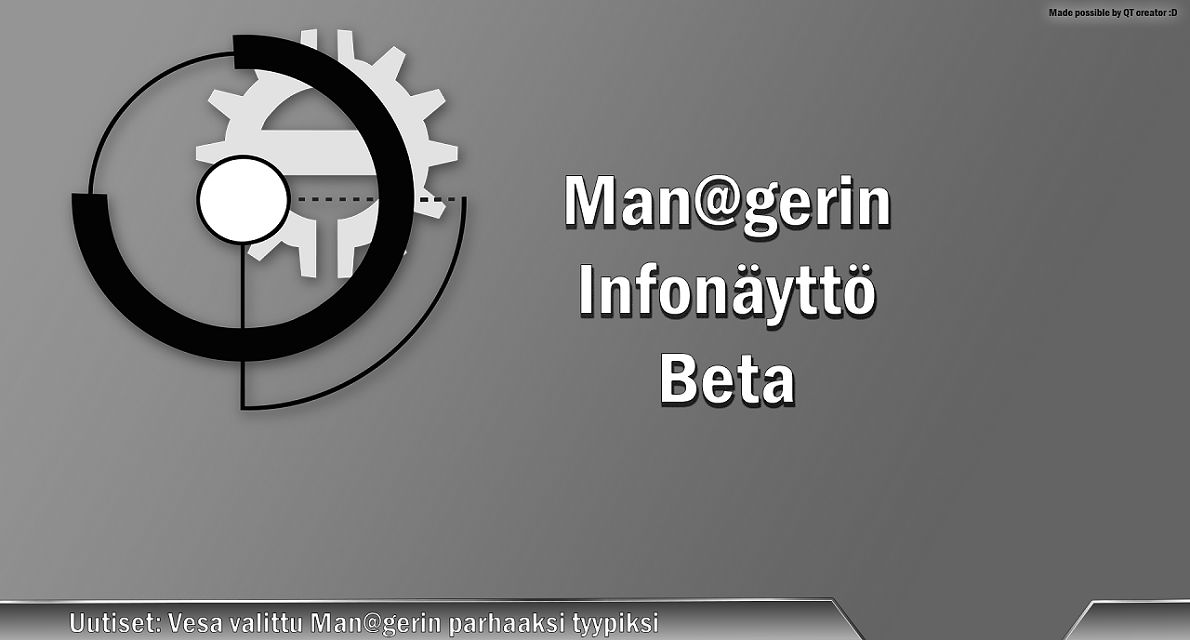
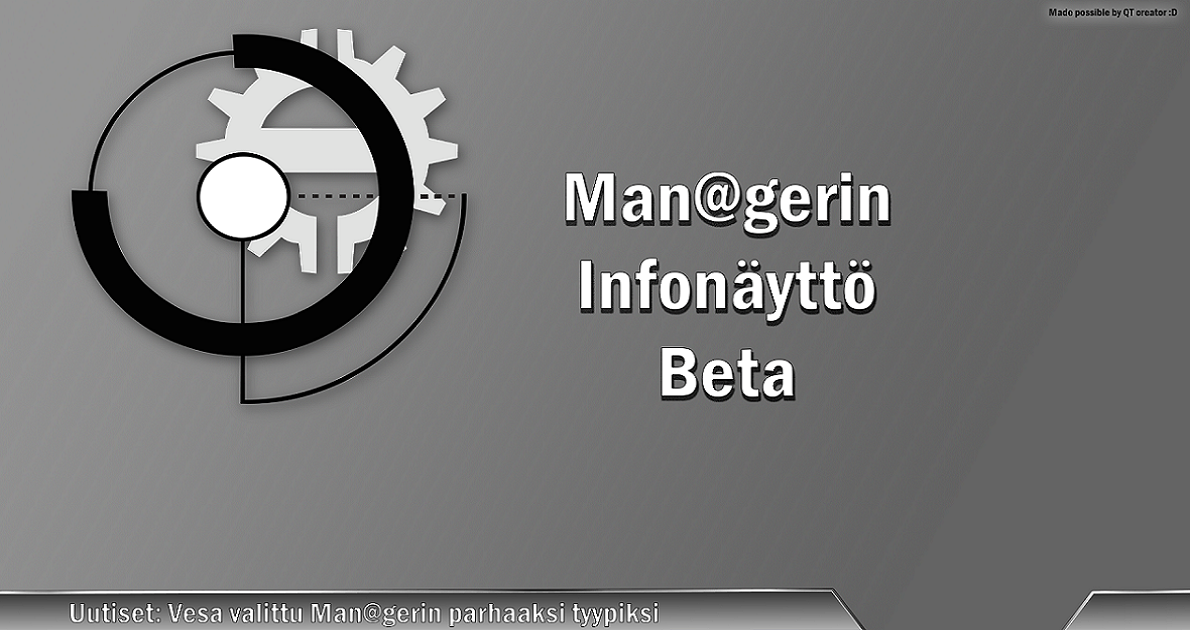
resolution

diff --git a/telegram_bot/ui_form.py b/telegram_bot/ui_form.py
@@ -21,17 +21,17 @@ class Ui_InfoScreen(object):
     def setupUi(self, InfoScreen):
         if not InfoScreen.objectName():
             InfoScreen.setObjectName(u"InfoScreen")
-        InfoScreen.resize(1190, 640)
+        InfoScreen.resize(1190, 630)
         self.Clock = QLabel(InfoScreen)
         self.Clock.setObjectName(u"Clock")
-        self.Clock.setGeometry(QRect(1000, 580, 70, 30))
+        self.Clock.setGeometry(QRect(1100, 600, 140, 60))
         font = QFont()
-        font.setPointSize(40)
+        font.setPointSize(20)
         font.setStrikeOut(False)
         self.Clock.setFont(font)
         self.Background = QLabel(InfoScreen)
         self.Background.setObjectName(u"Background")
-        self.Background.setGeometry(QRect(0, 0, 1190, 640))
+        self.Background.setGeometry(QRect(0, 0, 1190, 630))
         self.Background.setAutoFillBackground(False)
         self.Background.raise_()
         self.Clock.raise_()
